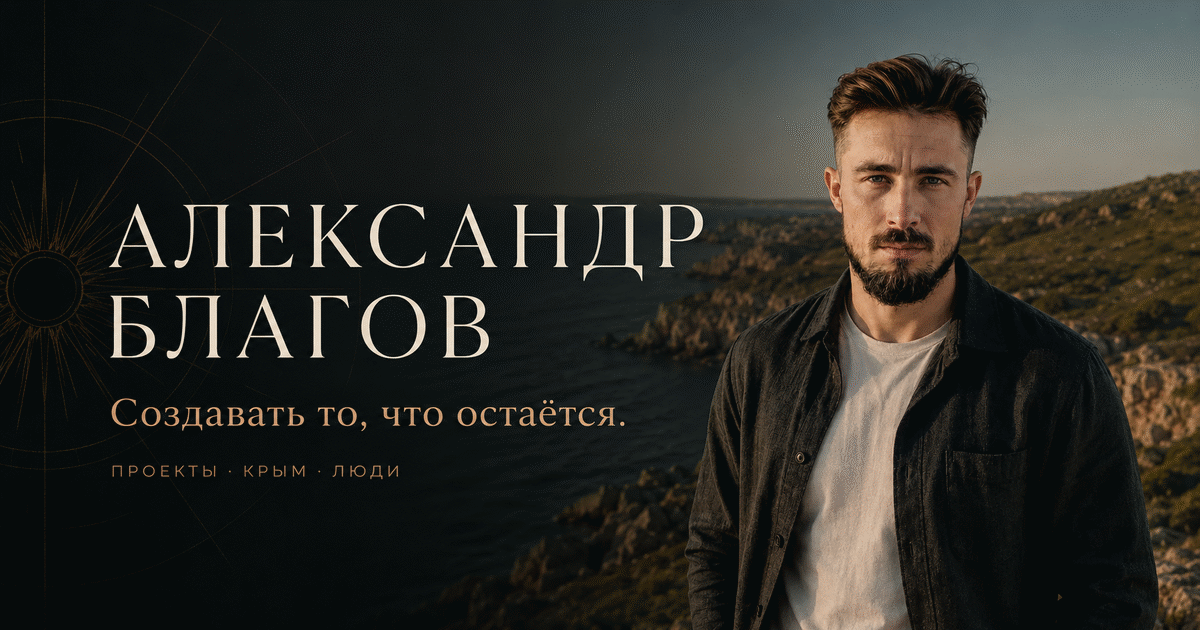
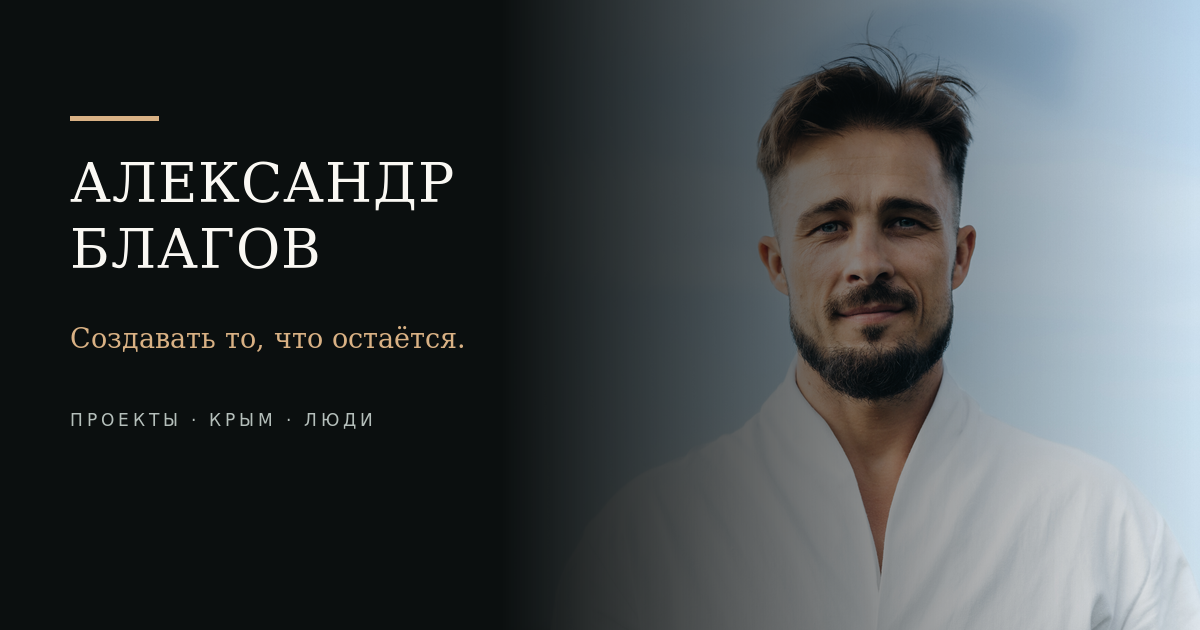
Use real photography and restore standing book portrait

diff --git a/app/page.tsx b/app/page.tsx
@@ -139,7 +139,7 @@ export default function Home() {
     name: "Александр Валерьевич Благов",
     alternateName: "Александр Благов",
     url: "https://alexblagov.ru/",
-    image: `${publicBasePath}/images/alexander-hero-coast-v6.webp`,
+    image: `${publicBasePath}/images/alexander-hero-real-2023.webp`,
     jobTitle: "Предприниматель, инвестор, девелопер",
     description:
       "Предприниматель и девелопер, работающий в Крыму; руководитель компании «Точка Притяжения», семейного проекта TOP THAI SPA и автор проекта «Жизнь без страха».",
@@ -199,13 +199,13 @@ export default function Home() {
         <div className="hero-visual hero-photo">
           <div className="portrait-frame">
             <Image
-              src="/images/alexander-hero-coast-v6.webp"
-              alt="Александр Благов на побережье у Бухты Космонавтов"
+              src="/images/alexander-hero-real-2023.webp"
+              alt="Александр Благов в белой рубахе"
               fill priority unoptimized sizes="(max-width: 820px) 1px, 57vw" className="portrait hero-photo-image portrait-desktop"
             />
             <Image
-              src="/images/alexander-hero-coast-mobile-v6.webp"
-              alt="Александр Благов на побережье Крыма"
+              src="/images/alexander-hero-real-2023-mobile.webp"
+              alt="Портрет Александра Благова"
               fill priority unoptimized sizes="(max-width: 820px) 100vw, 1px" className="portrait hero-photo-image portrait-mobile"
             />
             <div className="hero-photo-shade" aria-hidden="true" />
@@ -386,14 +386,14 @@ export default function Home() {
       <section id="family" className="family-section" aria-labelledby="family-title">
         <div className="family-visual">
           <Image
-            src="/images/alexander-family-crimea-real.webp"
-            alt="Александр Благов с семьёй на крымском побережье"
+            src="/images/alexander-family-real-2023.webp"
+            alt="Александр и Наталья Благовы с детьми"
             fill
             unoptimized
             sizes="(max-width: 900px) 100vw, 64vw"
             className="cover-image family-photo"
           />
-          <span className="family-caption">Семья · время вместе</span>
+          <span className="family-caption">Семья · Александр, Наталья и дети</span>
         </div>
         <div className="family-copy">
           <p className="section-kicker">Личное</p>
@@ -491,8 +491,8 @@ export default function Home() {
 
       <section id="book" className="book-section" aria-labelledby="book-title">
         <div className="book-art-panel">
-          <Image src="/images/alexander-book-published-restored.webp" alt="Александр Благов с изданной книгой Жизнь без страха" fill unoptimized sizes="(max-width: 900px) 100vw, 43vw" className="book-photo" />
-          <span className="book-photo-caption">Изданная книга · печатная версия</span>
+          <Image src="/images/alexander-book-published-restored.webp" alt="Александр Благов стоит с книгой «Жизнь без страха» в руках" fill unoptimized sizes="(max-width: 900px) 100vw, 43vw" className="book-photo" />
+          <span className="book-photo-caption">Автор · книга · личная история</span>
         </div>
         <div className="book-copy">
           <Image className="book-copy-motif" src="/images/manuscript-circle-life.webp" alt="" fill unoptimized sizes="420px" aria-hidden="true" />

diff --git a/app/layout.tsx b/app/layout.tsx
@@ -18,13 +18,13 @@ export const metadata: Metadata = {
     locale: "ru_RU",
     url: "/",
     siteName: "Александр Благов",
-    images: [{ url: "https://daridarom.github.io/alexblagov/og.png", width: 1200, height: 630, alt: "Александр Благов — создавать то, что остаётся" }],
+    images: [{ url: "https://alex-blagov-preview.semenovspb.chatgpt.site/og.png", width: 1200, height: 630, alt: "Александр Благов — создавать то, что остаётся" }],
   },
   twitter: {
     card: "summary_large_image",
     title: "Александр Благов — создавать то, что остаётся",
     description: "Проекты в Крыму, предпринимательство, книга, спорт и работа с сообществами.",
-    images: ["https://daridarom.github.io/alexblagov/og.png"],
+    images: ["https://alex-blagov-preview.semenovspb.chatgpt.site/og.png"],
   },
   icons: {
     icon: `${publicBasePath}/favicon.svg`,

diff --git a/app/globals.css b/app/globals.css
@@ -244,7 +244,7 @@ a:focus-visible { outline: 2px solid var(--solar); outline-offset: 5px; }
   animation: hero-photo-zoom 18s ease-in-out infinite alternate;
   filter: saturate(0.88) contrast(1.025) brightness(0.95);
   object-fit: cover;
-  object-position: 67% center;
+  object-position: center 44%;
   transform: scale(1.015);
   transform-origin: center;
   will-change: transform;
